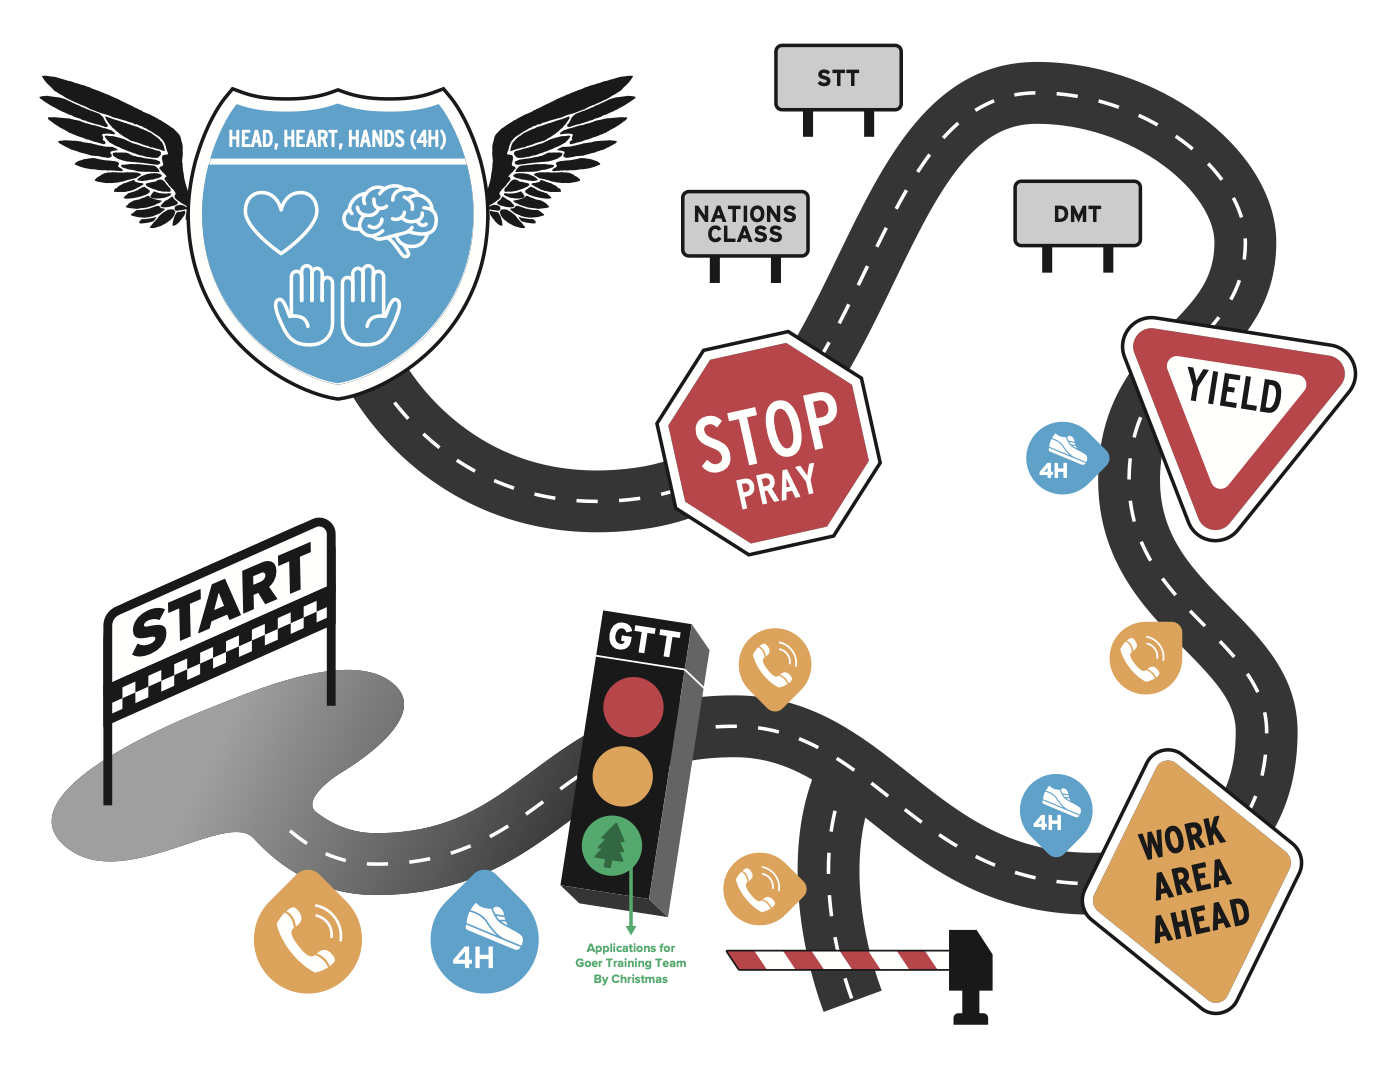
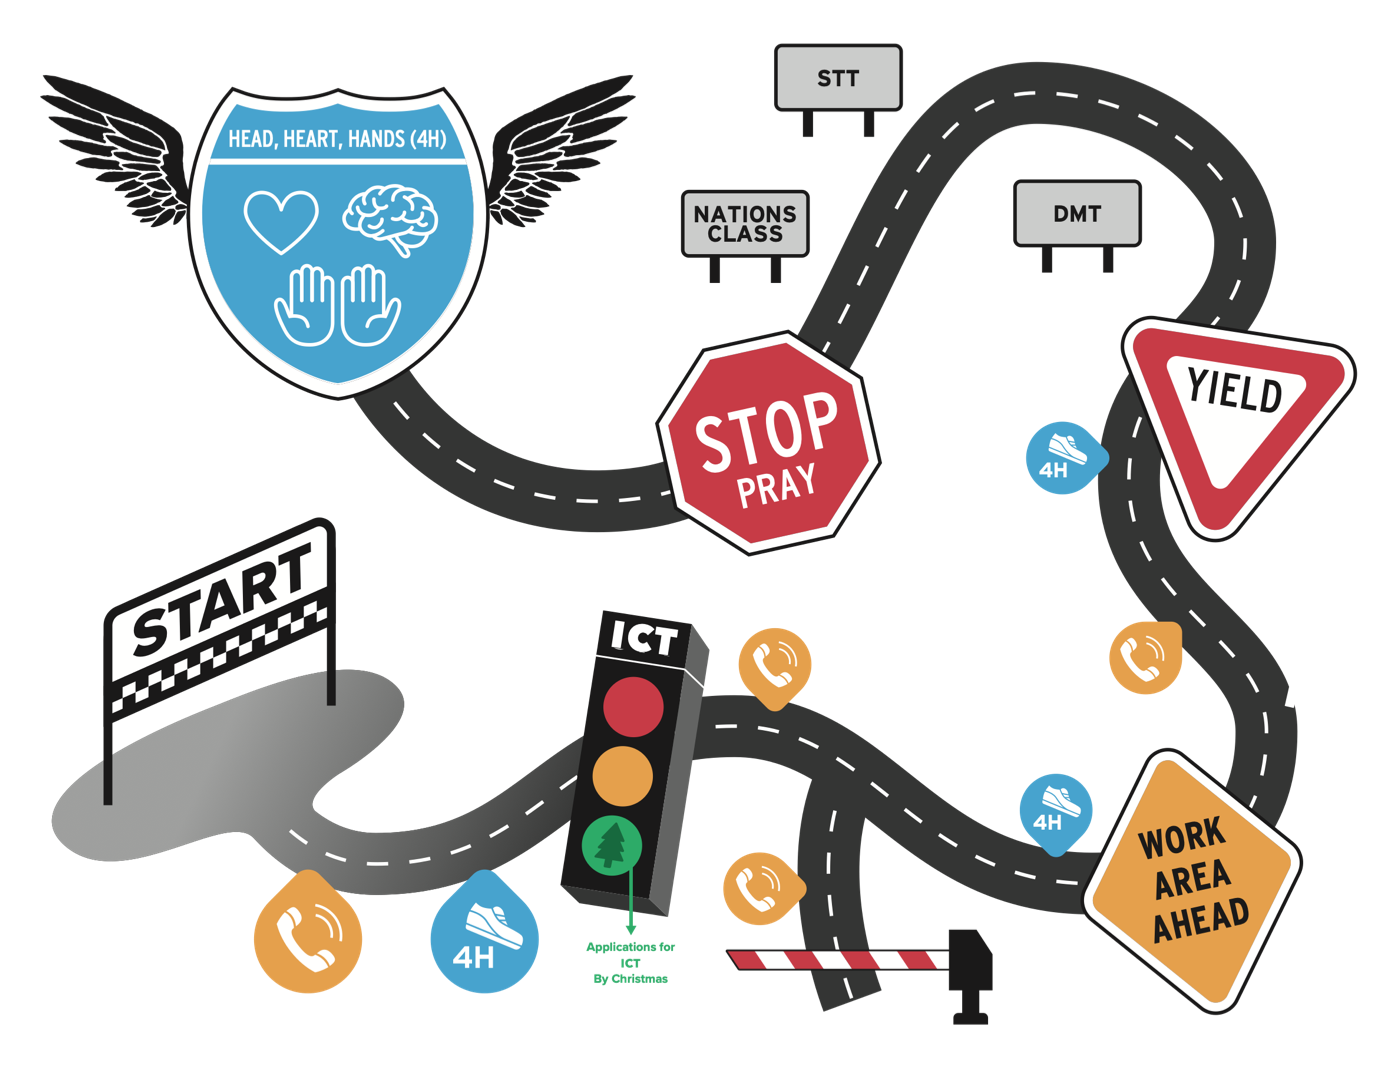
Disco Guide: ICT on the roadmap, add Driver's Ed page, GTT wording to ICT

diff --git a/guide.js b/guide.js
@@ -198,7 +198,7 @@ export const GUIDE_HTML = `
 // Launch timeline: the stops a goer plans between starting the nine-month
 // group and launching overseas. Built from the team's launch-timeline worksheet.
 const STOPS = [
-  { title: 'Goer training program', time: '9 months', note: 'The nine-month group (ICT) runs alongside everything below.' },
+  { title: 'ICT', time: '9 months', note: 'The nine-month group runs alongside everything below.' },
   { title: 'Talk with parents and family' },
   { title: 'Talk with church leaders' },
   { title: 'Perspectives course', time: '15 weeks' },
@@ -223,4 +223,67 @@ export const TIMELINE_HTML = `
   </li>`).join('')}
   <li class="tl-end"><b>Launch overseas</b><span class="tiny muted">Launch date: ________</span></li>
 </ol>
+`;
+
+// Driver's Ed: page two of the Discover roadmap, rebuilt for phones. Sign
+// pictures are cut from the team's roadmap graphic; the words are typed out.
+const sign = (img, alt, w = 72) => `<img class="de-sign" src="img/${img}" alt="${alt}" style="width:${w}px">`;
+const blanks = (first) => `<div class="de-blanks"><span>${first}</span><span></span><span></span><span></span></div>`;
+const LIGHT = `<svg class="de-sign" width="44" viewBox="0 0 44 104" aria-hidden="true">
+  <rect x="2" y="2" width="40" height="100" rx="4" fill="#1b1919"/>
+  <text x="22" y="17" text-anchor="middle" font-size="12" font-weight="800" fill="#fff" letter-spacing="1">ICT</text>
+  <line x1="2" y1="22" x2="42" y2="22" stroke="#fff" stroke-width="1.5"/>
+  <circle cx="22" cy="38" r="11" fill="#c8414b"/><circle cx="22" cy="63" r="11" fill="#e3a14f"/><circle cx="22" cy="88" r="11" fill="#2dab68"/>
+</svg>`;
+
+export const DRIVERS_ED_HTML = `
+<div class="stack-lg">
+  <div class="eyebrow">Ready at all times</div>
+
+  <div class="stack center">
+    ${sign('de-4hs.png', 'Head, heart and hands shield with wings', 200)}
+    <b>The 4Hs</b>
+    <span class="tiny muted">Holy Spirit, Head, Heart, Hands</span>
+  </div>
+
+  <div class="stack"><b>Holy Spirit</b>
+    <p>Hearing God? Be patient and gentle, but don't be afraid to challenge them and help them grow.</p></div>
+
+  <div class="stack"><b>Map for head, heart, hands</b>
+    ${sign('de-map.png', 'Map linking head, heart and hands: STT, Nations Class and the 10-week group', 260)}
+    <span class="tiny muted">Big hitters: STT, Nations Class and the 10-week group (DMC).</span></div>
+
+  <div class="stack"><b>Head</b>${blanks('Acts 13–14 study')}</div>
+  <div class="stack"><b>Heart</b>${blanks('Prayercast video')}</div>
+  <div class="stack"><b>Hands</b>${blanks('F.I.S.H. together')}</div>
+</div>
+
+<div class="stack-lg">
+  <div class="eyebrow">On the road</div>
+  <div class="de-row">${sign('de-stop.png', 'Stop, pray sign')}
+    <div class="stack"><b>Stop and pray</b><p>What is helpful for you to pray before every meeting?</p></div></div>
+  <div class="de-row">${sign('de-yield.png', 'Yield sign')}
+    <div class="stack"><b>1–2 meetings</b><p>Yield to the Holy Spirit. Listen and gain awareness of the 4Hs. Lead through asking questions.</p></div></div>
+  <div class="de-row">${sign('de-work.png', 'Work area ahead sign')}
+    <div class="stack"><b>2–5 meetings</b><p>Let's get to work. What in the 4Hs does this person need? No cookie-cutter answers here.</p></div></div>
+</div>
+
+<div class="stack-lg">
+  <div class="eyebrow">Along the way</div>
+  <div class="stack">${sign('de-signs.png', 'STT, Nations Class and DMT road signs', 200)}
+    <b>Bread and butter</b><p>Recruit to and from here. Use them as often as possible.</p></div>
+  <div class="de-row">${sign('de-gate.png', 'Gate arm')}
+    <div class="stack"><b>Gate</b><p>Don't skip this step. Where can I off-ramp to? Loving communication.</p></div></div>
+  <div class="de-row">${sign('de-4h.png', '4H next step marker', 52)}
+    <div class="stack"><b>Next step</b><p>It's our responsibility to partner with the Spirit to present a clear next step in head, heart or hands.</p></div></div>
+  <div class="de-row">${sign('de-phone.png', 'Phone marker', 52)}
+    <div class="stack"><b>Discover engagement</b><p>How's the next step going? Time to meet again?</p></div></div>
+  <div class="de-row">${LIGHT}
+    <div class="stack"><b>ICT</b>
+      <p><b style="color:#c8414b">Red:</b> Why? How can we help?</p>
+      <p><b style="color:#b9772a">Yellow:</b> Create a care plan.</p>
+      <p><b style="color:#1f8a52">Green:</b> Send the ICT application.</p></div></div>
+  <div class="de-start"><div class="de-start-title">START</div><div class="de-checks"></div>
+    <div class="de-start-sub">Lease signed and moved in to start the next ICT</div></div>
+</div>
 `;

diff --git a/app.js b/app.js
@@ -1,5 +1,5 @@
 import { API_URL, NOTION_URL } from './config.js';
-import { GUIDE_HTML, TEXTS, HUB_URL, TIMELINE_HTML } from './guide.js';
+import { GUIDE_HTML, TEXTS, HUB_URL, TIMELINE_HTML, DRIVERS_ED_HTML } from './guide.js';
 
 const DEMO = !API_URL;
 const app = document.getElementById('app');
@@ -292,10 +292,15 @@ function viewGuide() {
     <div class="stack-lg small">
         <h2>Discover roadmap</h2>
         <a class="roadmap" href="roadmap.png" target="_blank" rel="noopener">
-          <img src="roadmap.png" alt="Discover roadmap: a road from Start through GTT, Stop and Pray, Nations Class, STT, DMT, Yield, Work Area Ahead and back to GTT, with Head, Heart, Hands (4H) as the destination. Applications for Goer Training Team are due by Christmas.">
+          <img src="roadmap.png" alt="Discover roadmap: a road from Start through ICT, Stop and Pray, Nations Class, STT, DMT, Yield, Work Area Ahead and back to ICT, with Head, Heart, Hands (4H) as the destination. Applications for ICT are due by Christmas.">
         </a>
         <p class="tiny muted center">Tap the image to open it full size.</p>
     </div>
+
+    <details class="more">
+      <summary>Driver's Ed</summary>
+      <div class="stack-lg small">${DRIVERS_ED_HTML}</div>
+    </details>
 
     <details class="more">
       <summary>Launch timeline</summary>

diff --git a/styles.css b/styles.css
@@ -199,3 +199,13 @@ details.more .stack-lg { gap: 14px; }
 .timeline > li::before { content: ''; position: absolute; left: -21px; top: 5px; width: 12px; height: 12px; border-radius: 50%; background: var(--card); border: 2px solid var(--accent); }
 .timeline > li.tl-end::before { background: var(--accent); }
 .timeline > li.tl-end b { color: var(--accent-dark); }
+
+.de-sign { display: block; height: auto; max-width: 100%; margin: 0 auto; mix-blend-mode: multiply; }
+.de-row { display: grid; grid-template-columns: 72px 1fr; gap: 14px; align-items: center; }
+.de-row p, .guide .stack p { margin: 0; }
+.de-blanks { display: grid; grid-template-columns: 1fr 1fr; gap: 6px 14px; }
+.de-blanks span { border-bottom: 1px solid var(--field); min-height: 24px; padding-bottom: 2px; }
+.de-start { border: 3px solid var(--ink); border-radius: 12px; overflow: hidden; text-align: center; background: var(--card); }
+.de-start-title { font-size: 32px; font-weight: 800; letter-spacing: 0.04em; padding: 4px 0 2px; }
+.de-checks { height: 16px; background: repeating-conic-gradient(var(--ink) 0 25%, #fff 0 50%) 0 0 / 16px 16px; }
+.de-start-sub { font-weight: 700; padding: 8px 10px; }
